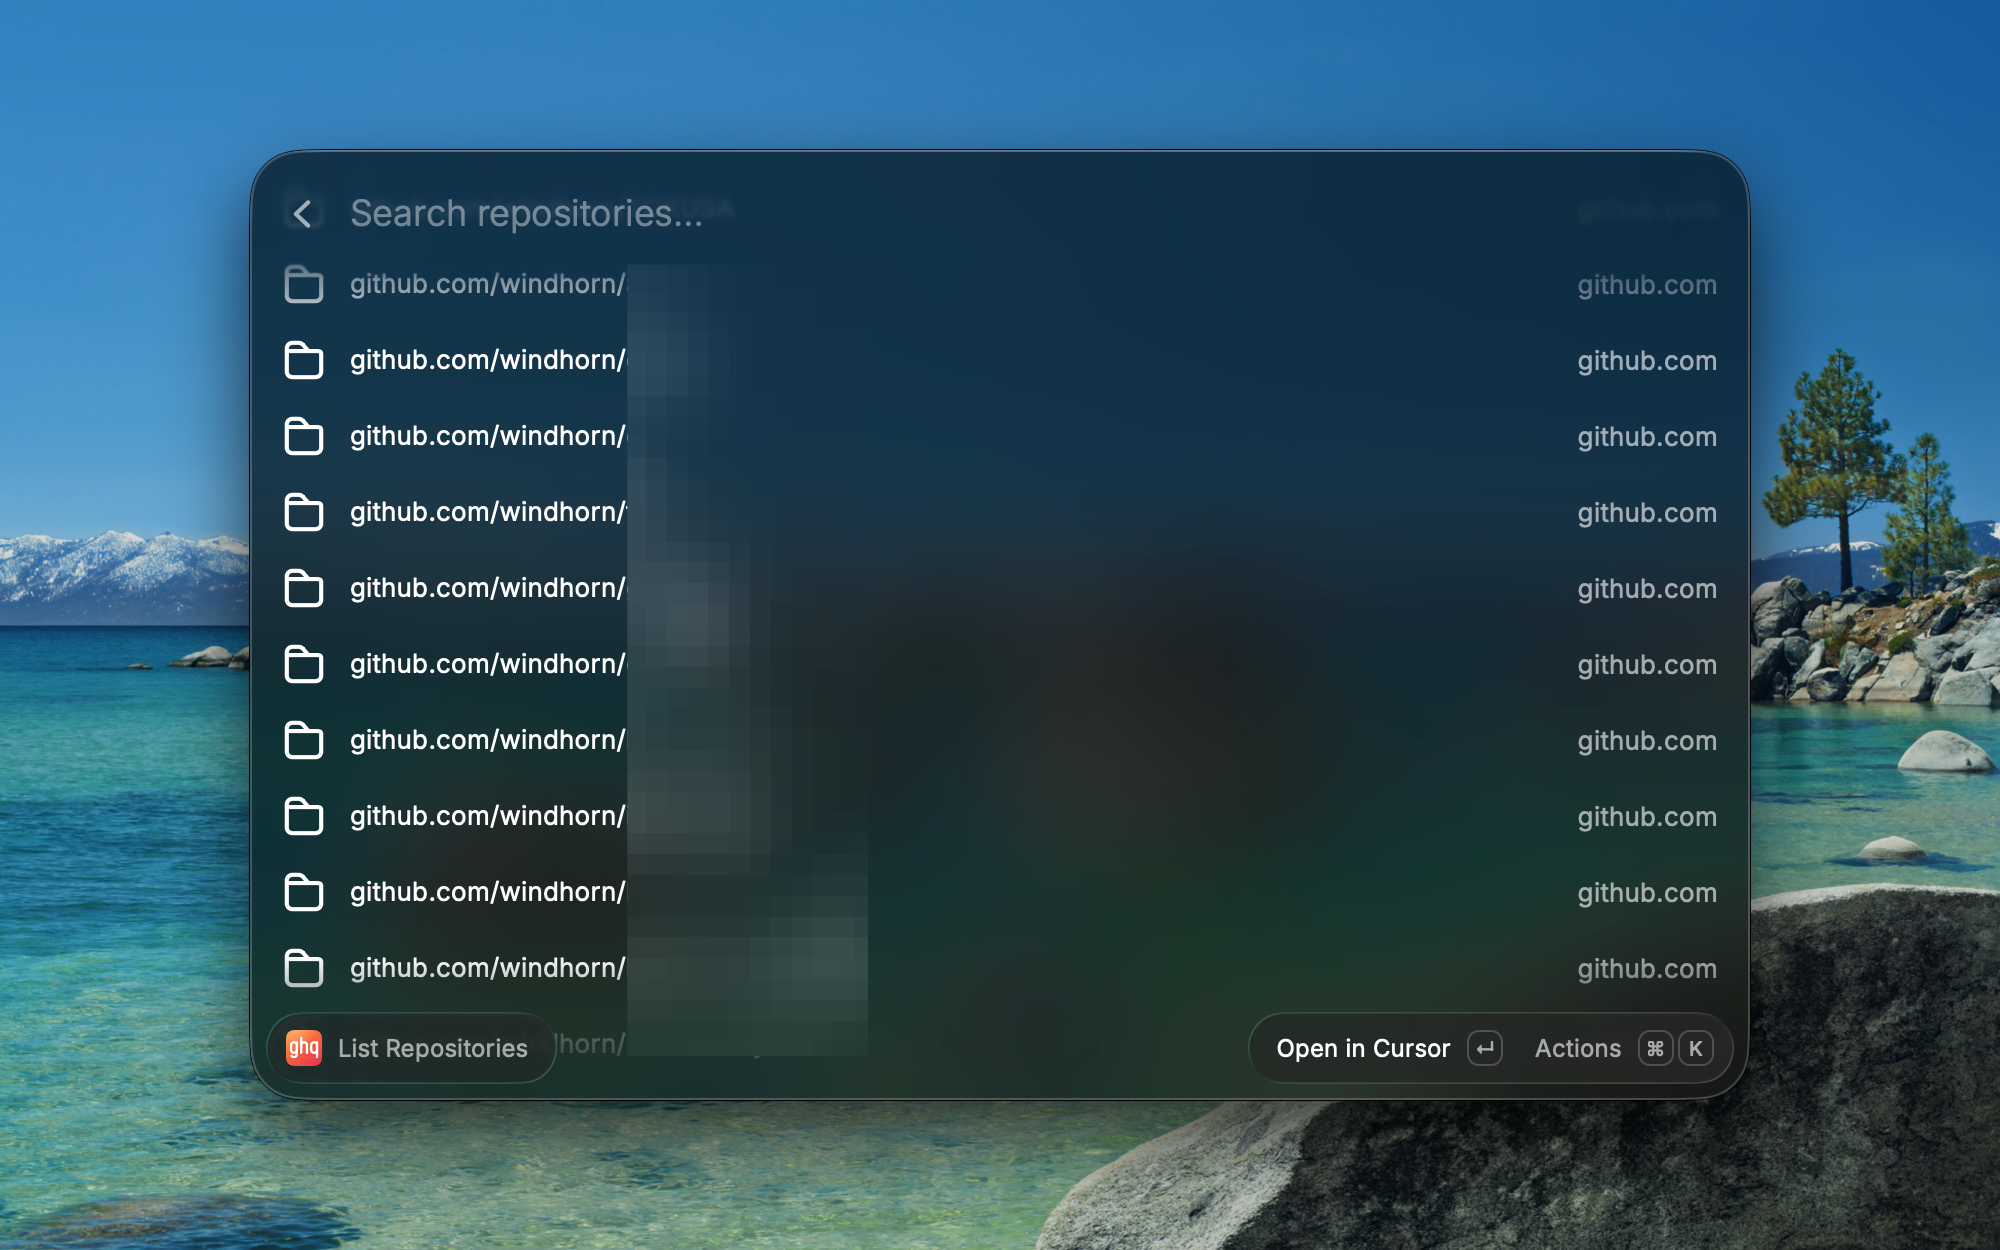
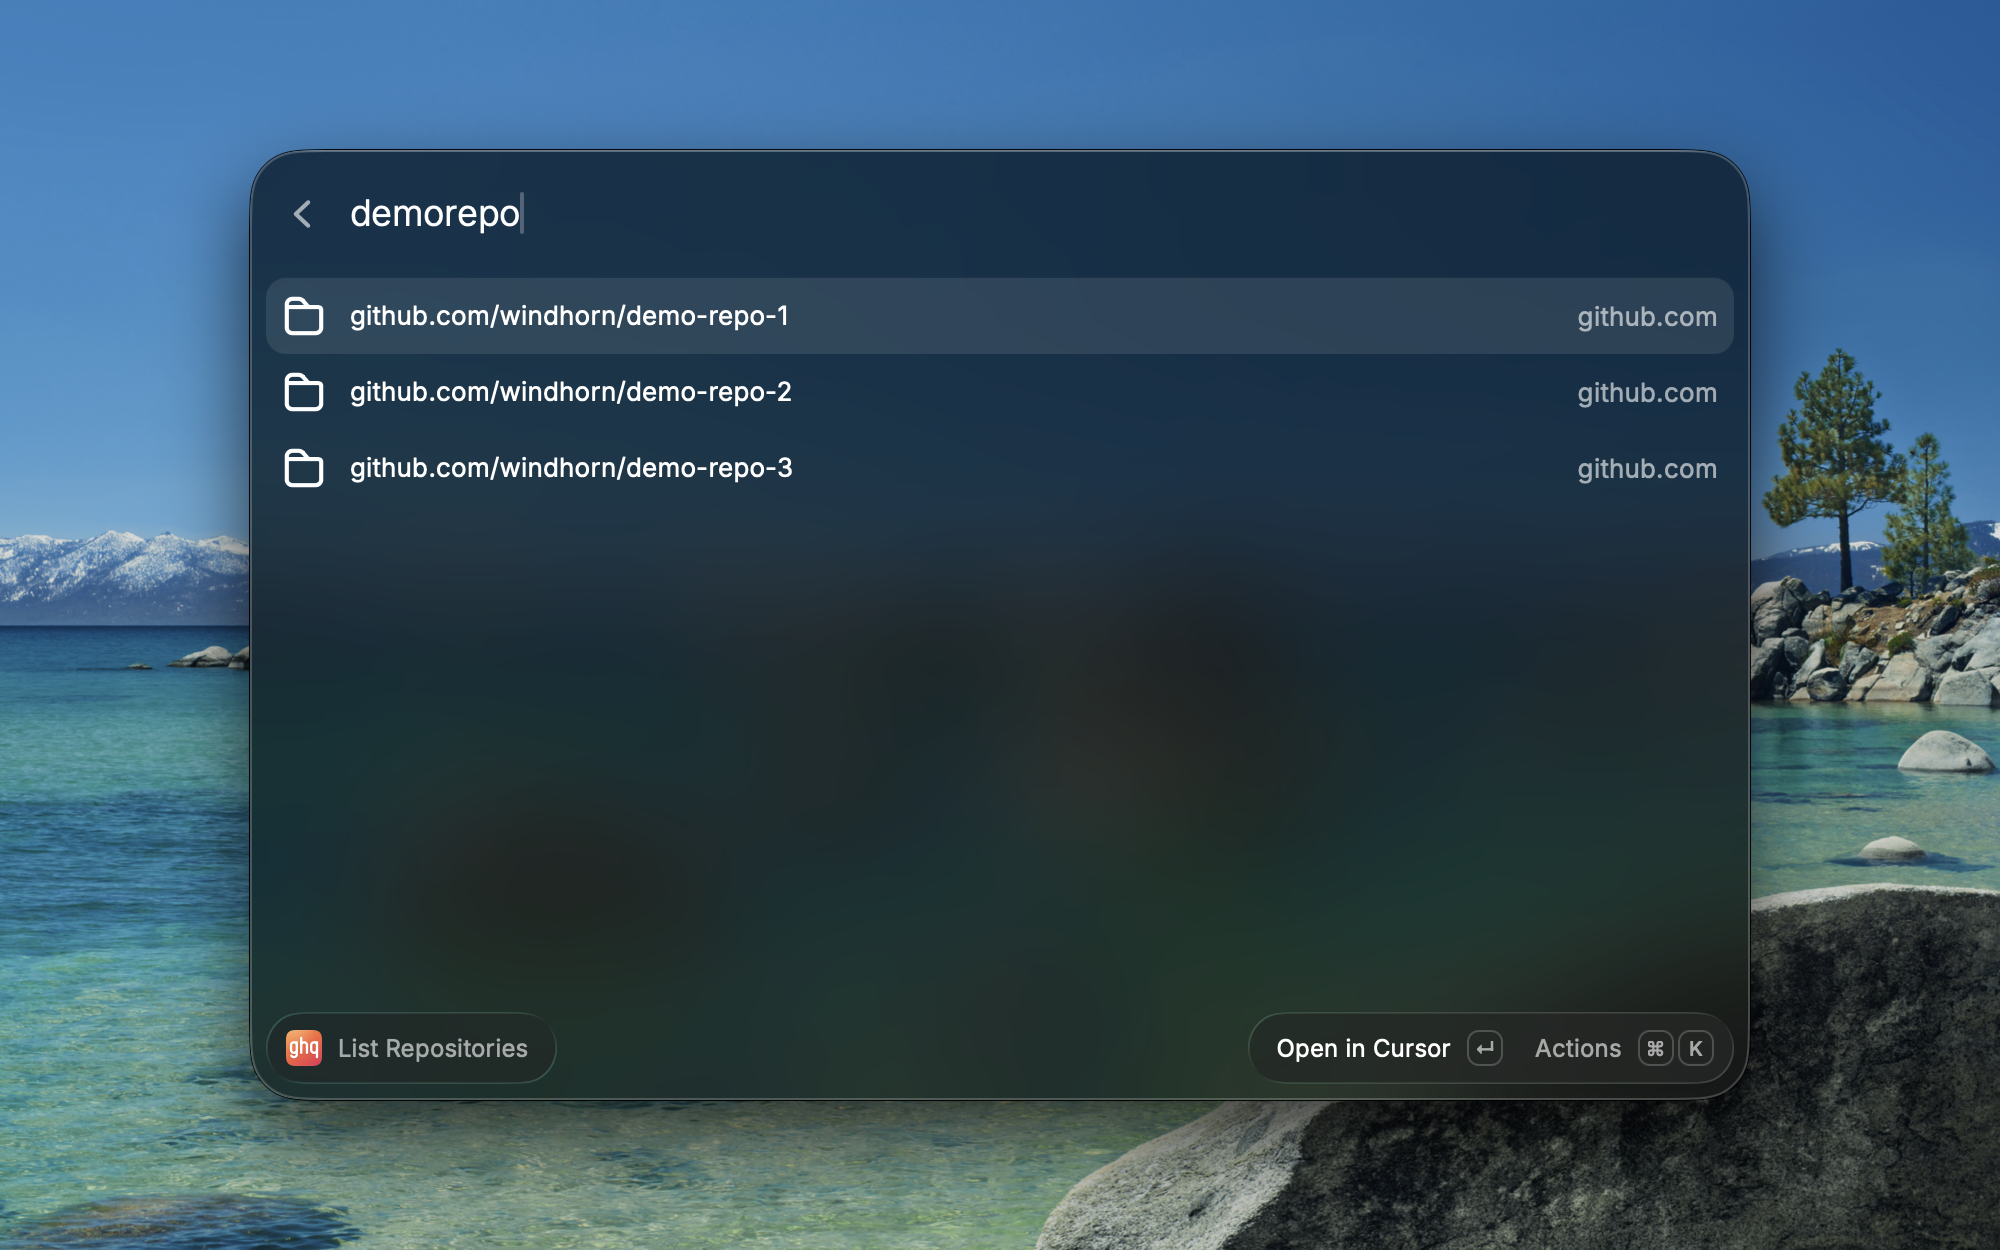
add metadata. update README.md

diff --git a/README.md b/README.md
@@ -21,7 +21,7 @@ brew install ghq
 Raycast does not load your shell `PATH`, so set the absolute path to `ghq` once.
 
 1. Run `which ghq` and copy the path (for example `/opt/homebrew/bin/ghq`).
-2. Open **Raycast Settings > Extensions > ghq** and paste it into **Ghq Path**.
+2. Open **Raycast Settings > Extensions > Ghq Plus** and paste it into **Ghq Path**.
 3. Choose an **Editor**, a **Terminal**, or both. **List Repositories** needs at least one.
 
    ```bash
